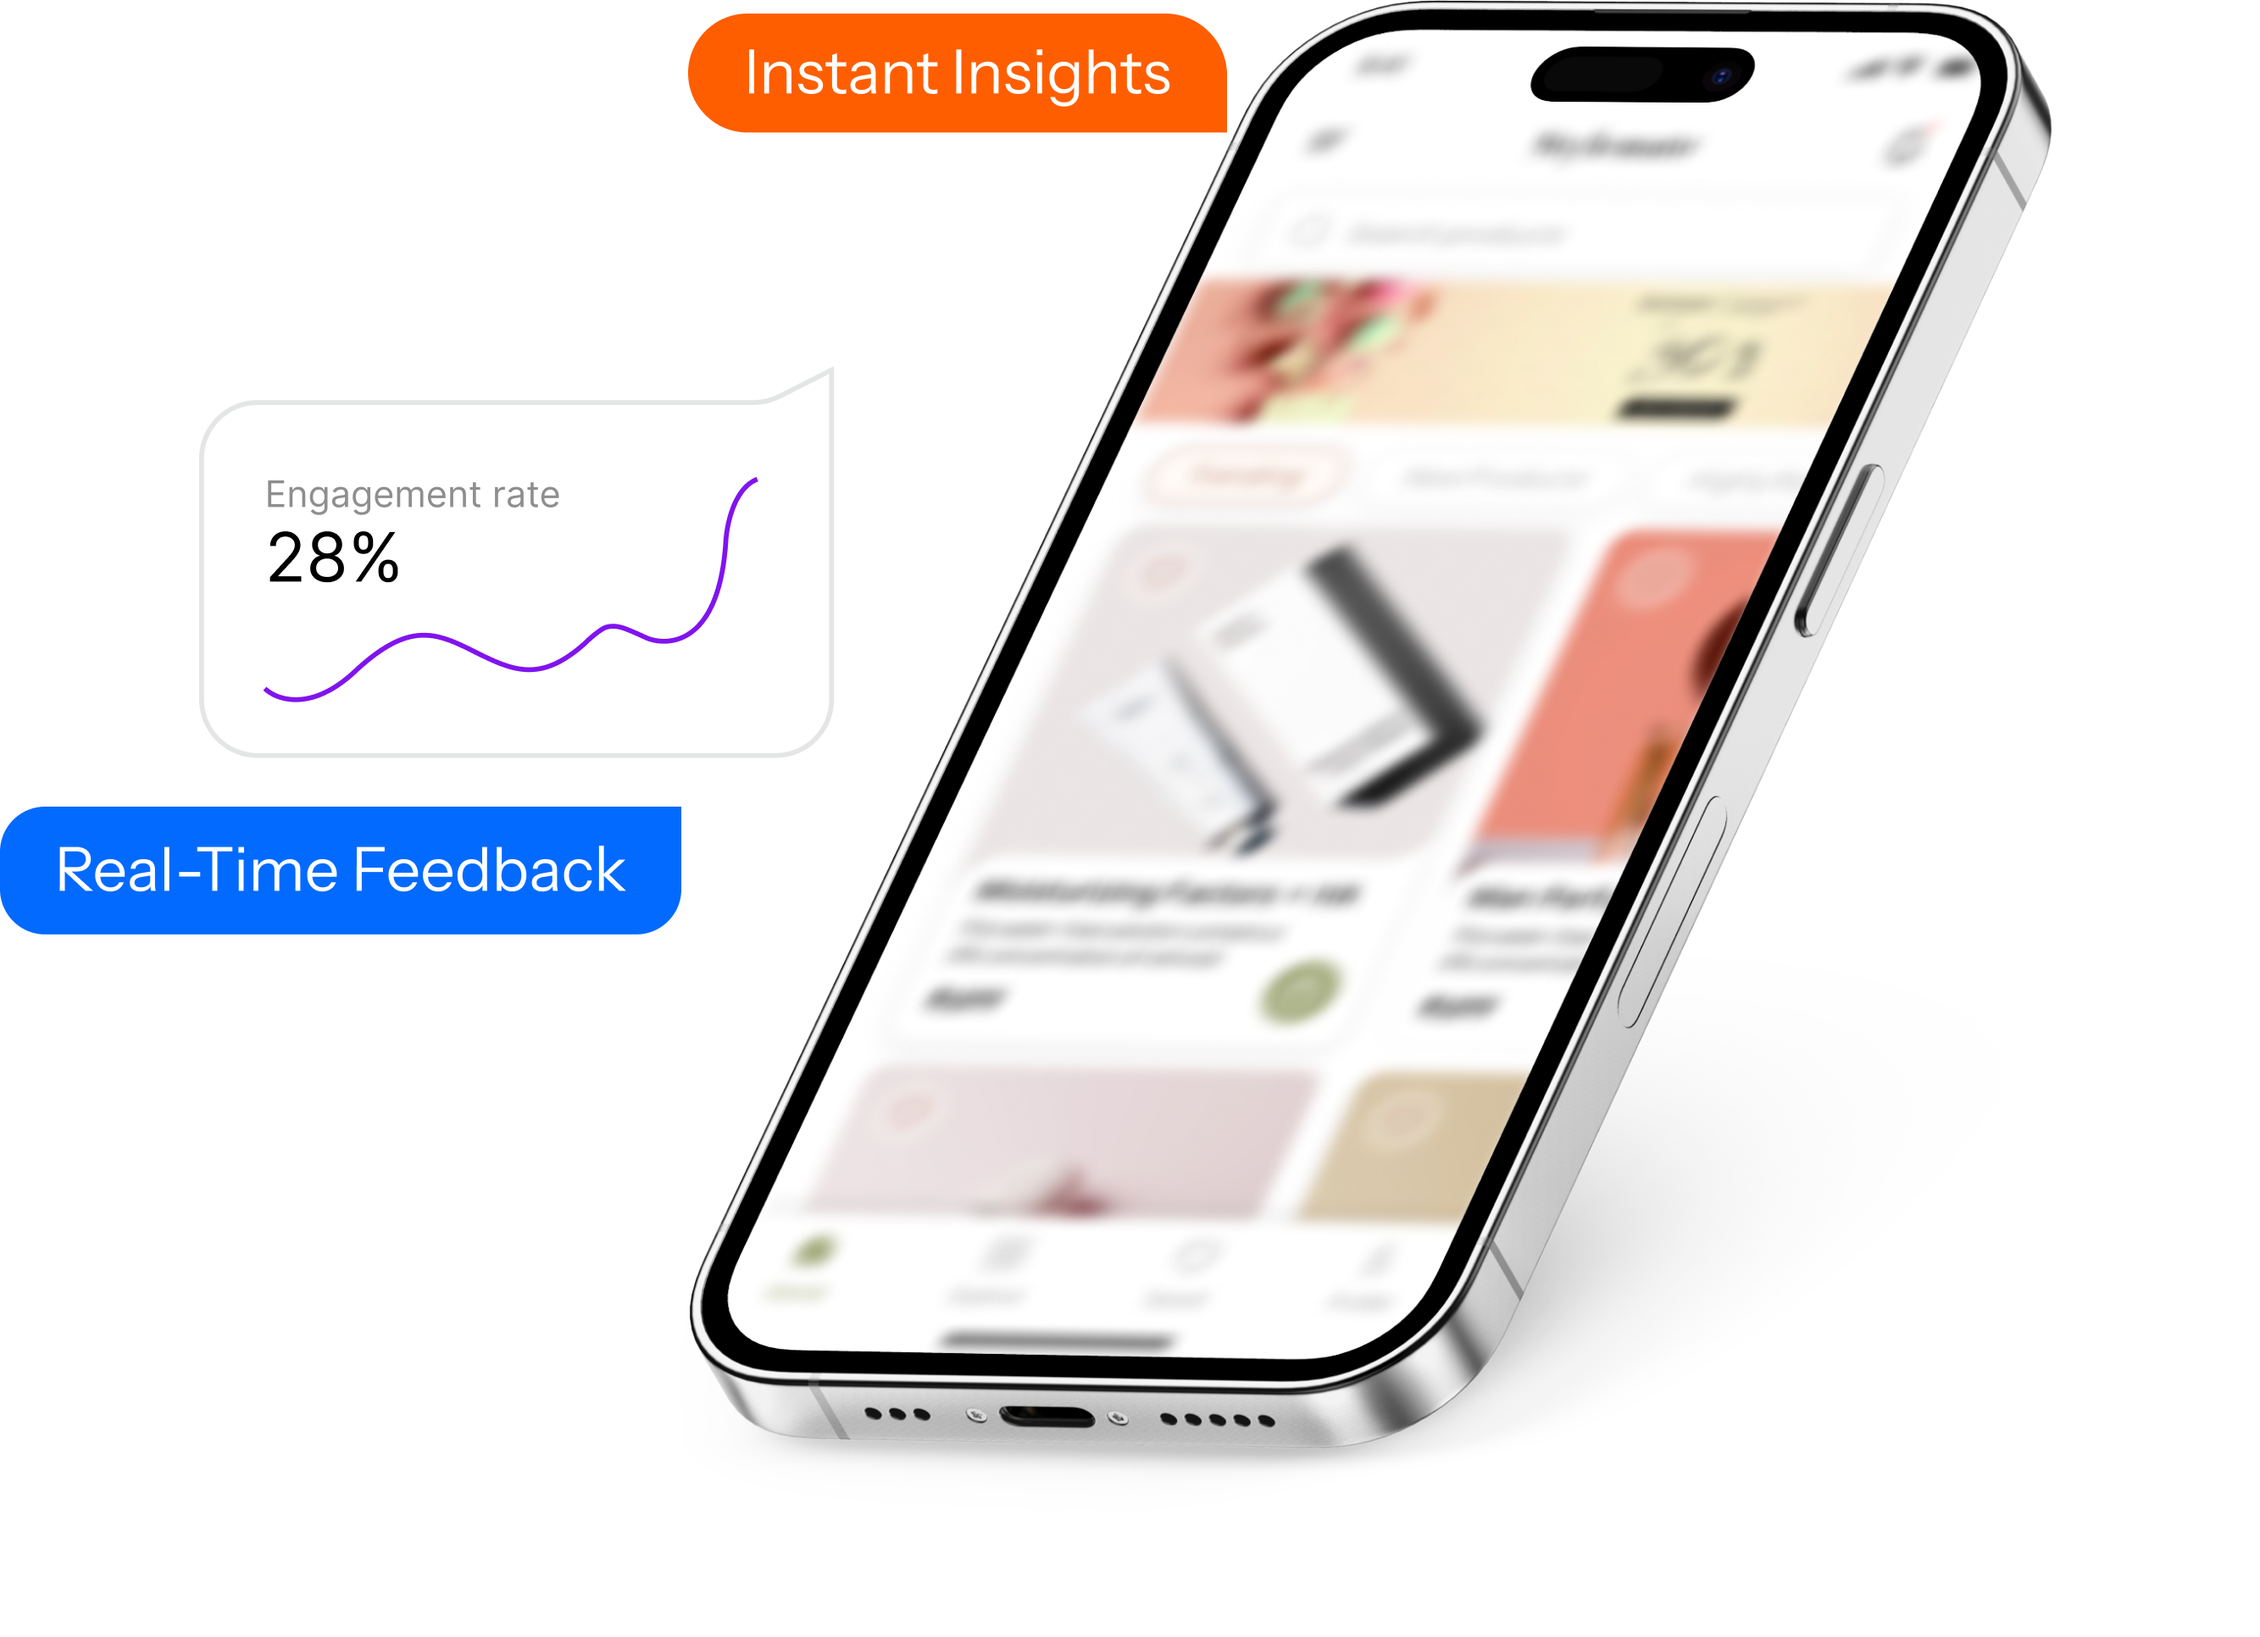
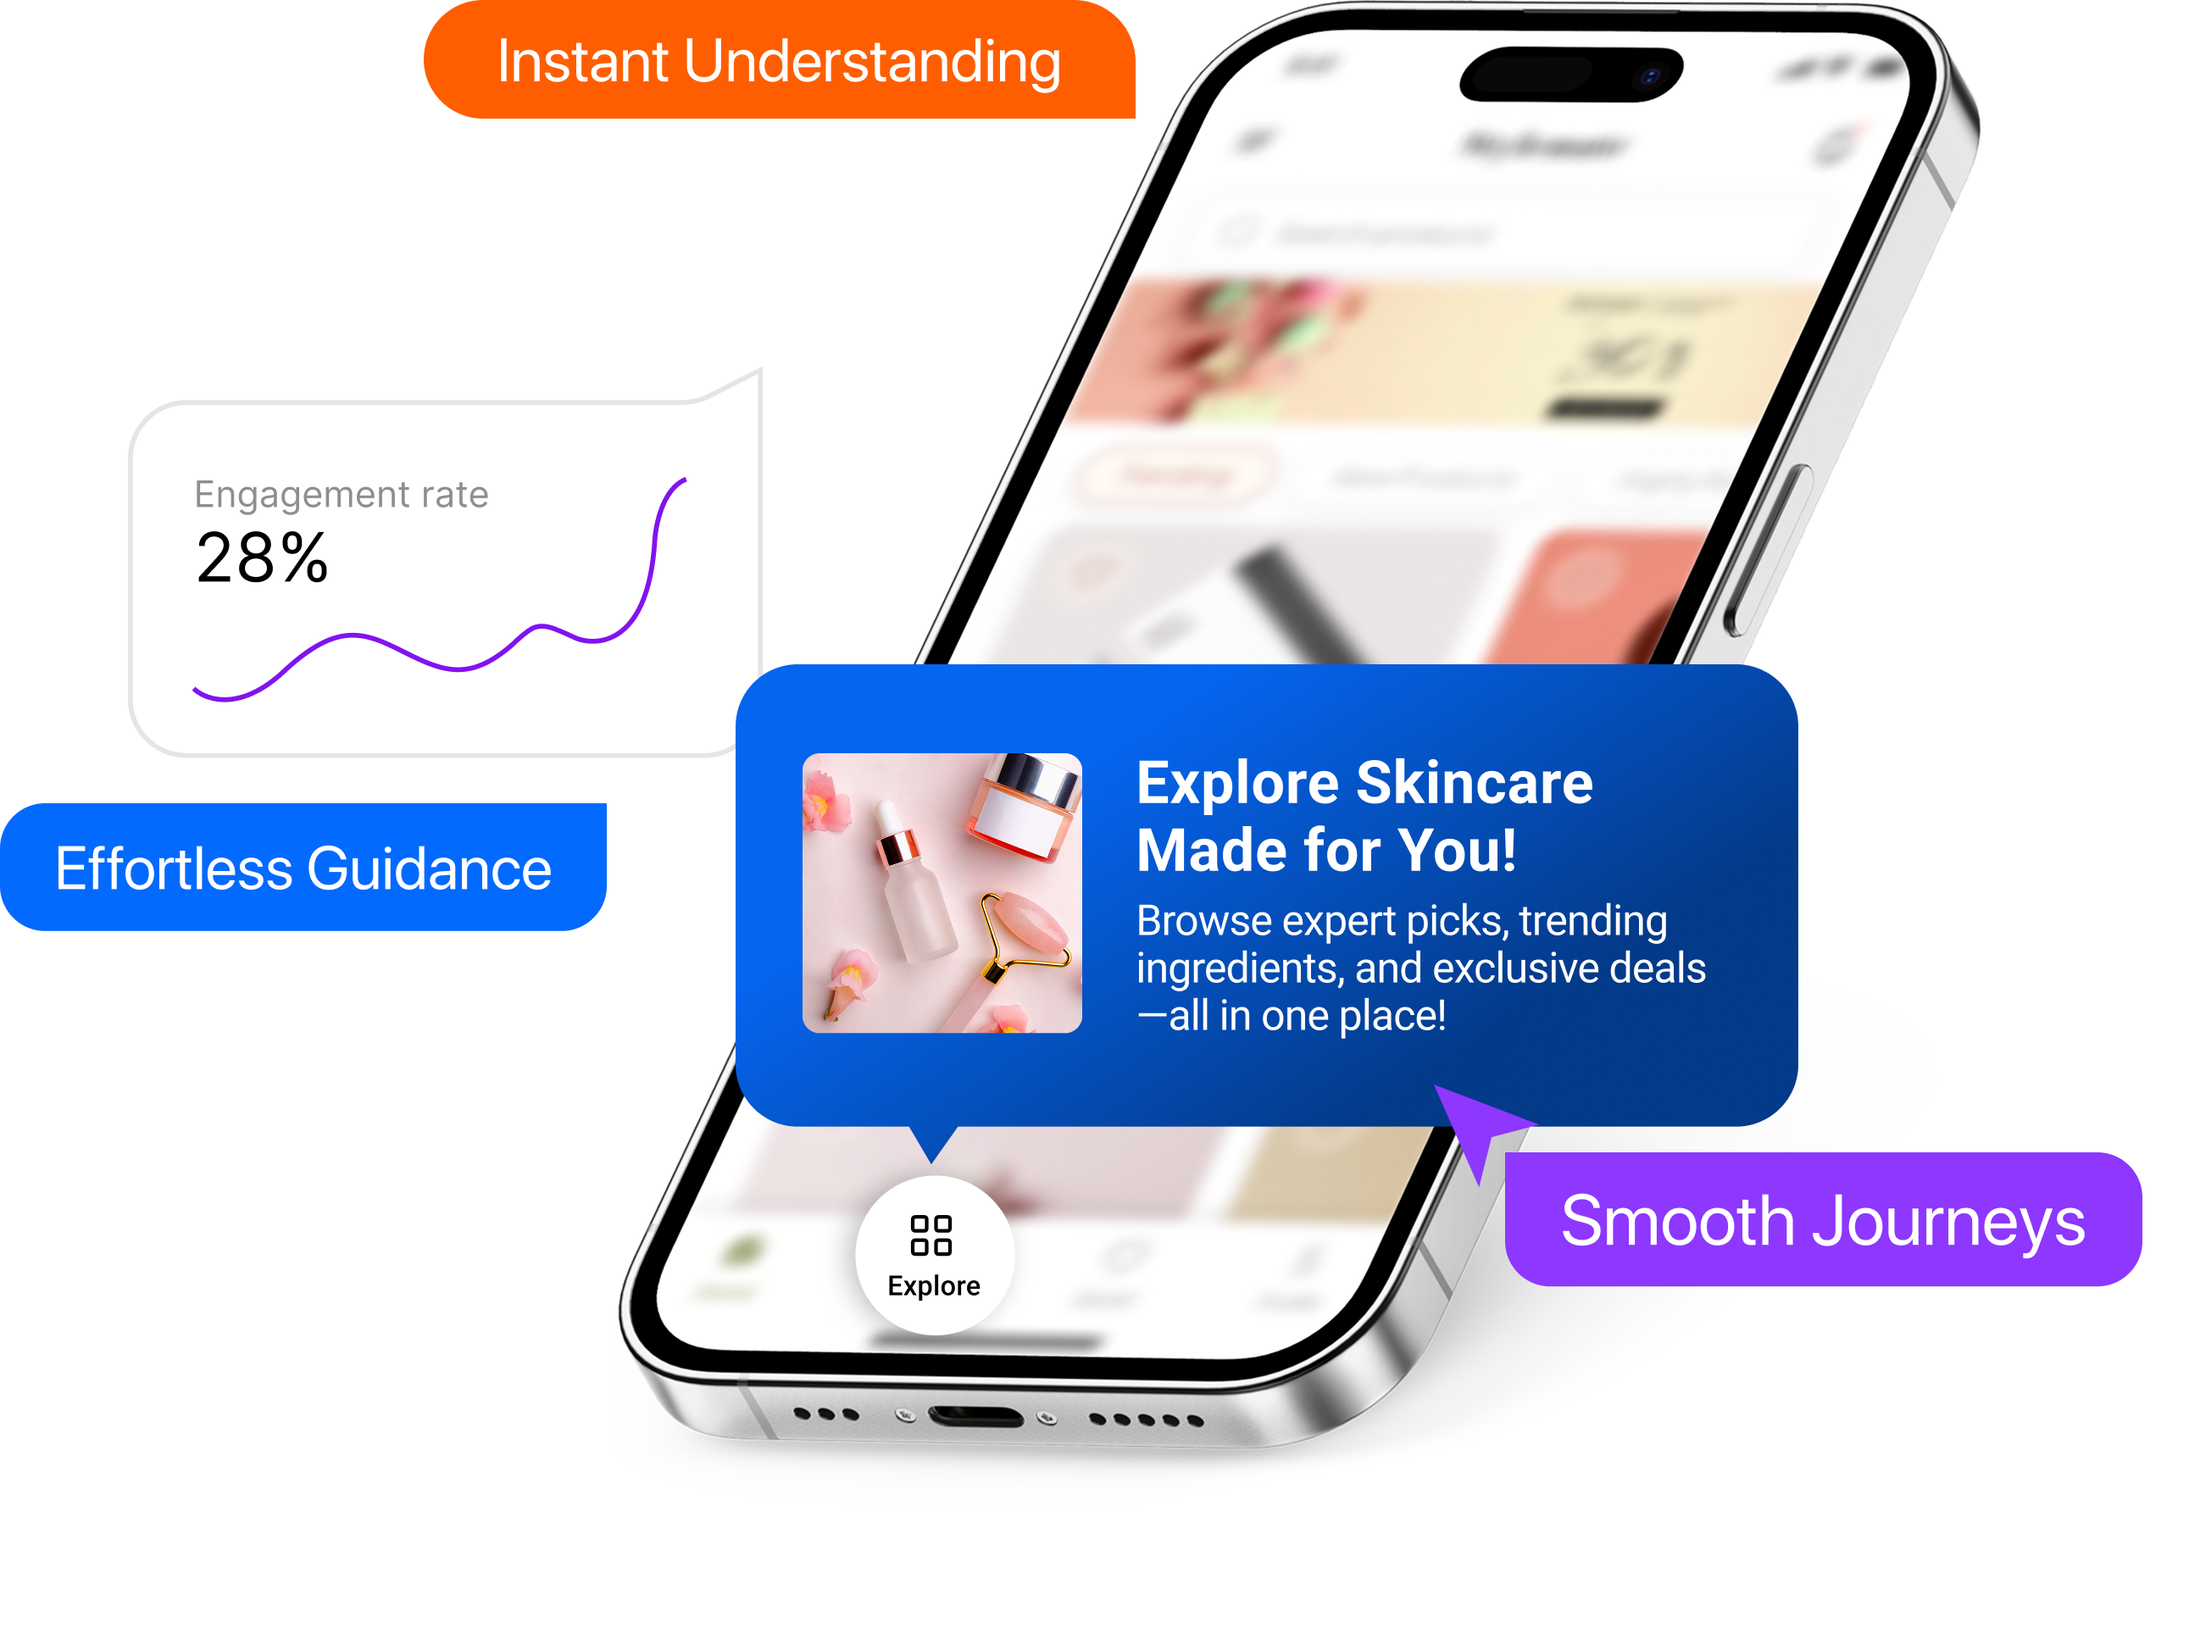
bottomsheet images added

diff --git a/src/app/bottomSheets/page.js b/src/app/bottomSheets/page.js
@@ -4,10 +4,10 @@ import Image from "next/image";
 import React from 'react';
 import FeatureTicker from "../components/FeatureTicker";
 import StepsSection from "../components/StepsSection";
-import featureWidget from '../../assets/feature_Widget.png';
-import widgetBanner1 from '../../assets/widget_banner_1.png';
-import widgetBanner2 from '../../assets/widget_banner_2.png';
-import widgetBanner3 from '../../assets/widget_banner_3.png';
+import featureWidget from '../../assets/feature_bottomsheet.png';
+import widgetBanner1 from '../../assets/bottomsheet_banner_1.png';
+import widgetBanner2 from '../../assets/bottomsheet_banner_2.png';
+import widgetBanner3 from '../../assets/bottomsheet_banner_3.png';
 import Link from "next/link";
 
 export default function BottomSheet() {
@@ -31,10 +31,10 @@ export default function BottomSheet() {
             </div>
             <div className="w-full md:w-1/2 flex flex-col justify-center items-start gap-3">
               <h1 className="text-4xl md:text-5xl lg:text-[59px] text-black font-semibold leading-tight md:leading-[0.97]">
-                Boost Engagement with Interactive BottomSheets
+                Boost Engagement with Interactive Bottom Sheets
               </h1>
               <p className="text-black text-base md:text-lg max-w-[500px] mt-6">
-                Elevate your app with custom BottomSheets designed for personalized, interactive experiences. Seamlessly integrate and tailor them to match your app’s style, enhancing user engagement and overall performance.
+                Elevate your app with custom Bottom Sheets designed for personalized, interactive experiences. Seamlessly integrate and tailor them to match your app’s style, enhancing user engagement and overall performance.
               </p>
               <Link
                 className="rounded-full bg-[#FF5E00] text-white px-8 py-3 text-sm font-bold tracking-wider flex items-center gap-2 mt-8"

diff --git a/src/app/banners/page.js b/src/app/banners/page.js
@@ -72,7 +72,7 @@ export default function Banners() {
         <div className="max-w-[1400px] mx-auto px-4 sm:px-8 md:px-12 lg:px-20 py-16">
           <div className="flex flex-col gap-16">
             {/* Feature 1 */}
-            <div className="flex flex-col lg:flex-row justify-between items-center gap-8 lg:gap-12">
+            <div className="flex flex-col-reverse lg:flex-row justify-between items-center gap-8 lg:gap-12">
               <div className="w-full lg:w-1/2 flex justify-center">
                 <div className="relative h-[300px] sm:h-[350px] md:h-[400px] w-auto">
                   <Image
@@ -134,7 +134,7 @@ export default function Banners() {
             </div>
 
             {/* Feature 3 */}
-            <div className="flex flex-col lg:flex-row justify-between items-center gap-8 lg:gap-12">
+            <div className="flex flex-col-reverse lg:flex-row justify-between items-center gap-8 lg:gap-12">
               <div className="w-full lg:w-1/2 flex justify-center">
                 <div className="relative h-[300px] sm:h-[350px] md:h-[400px] w-auto">
                   <Image
